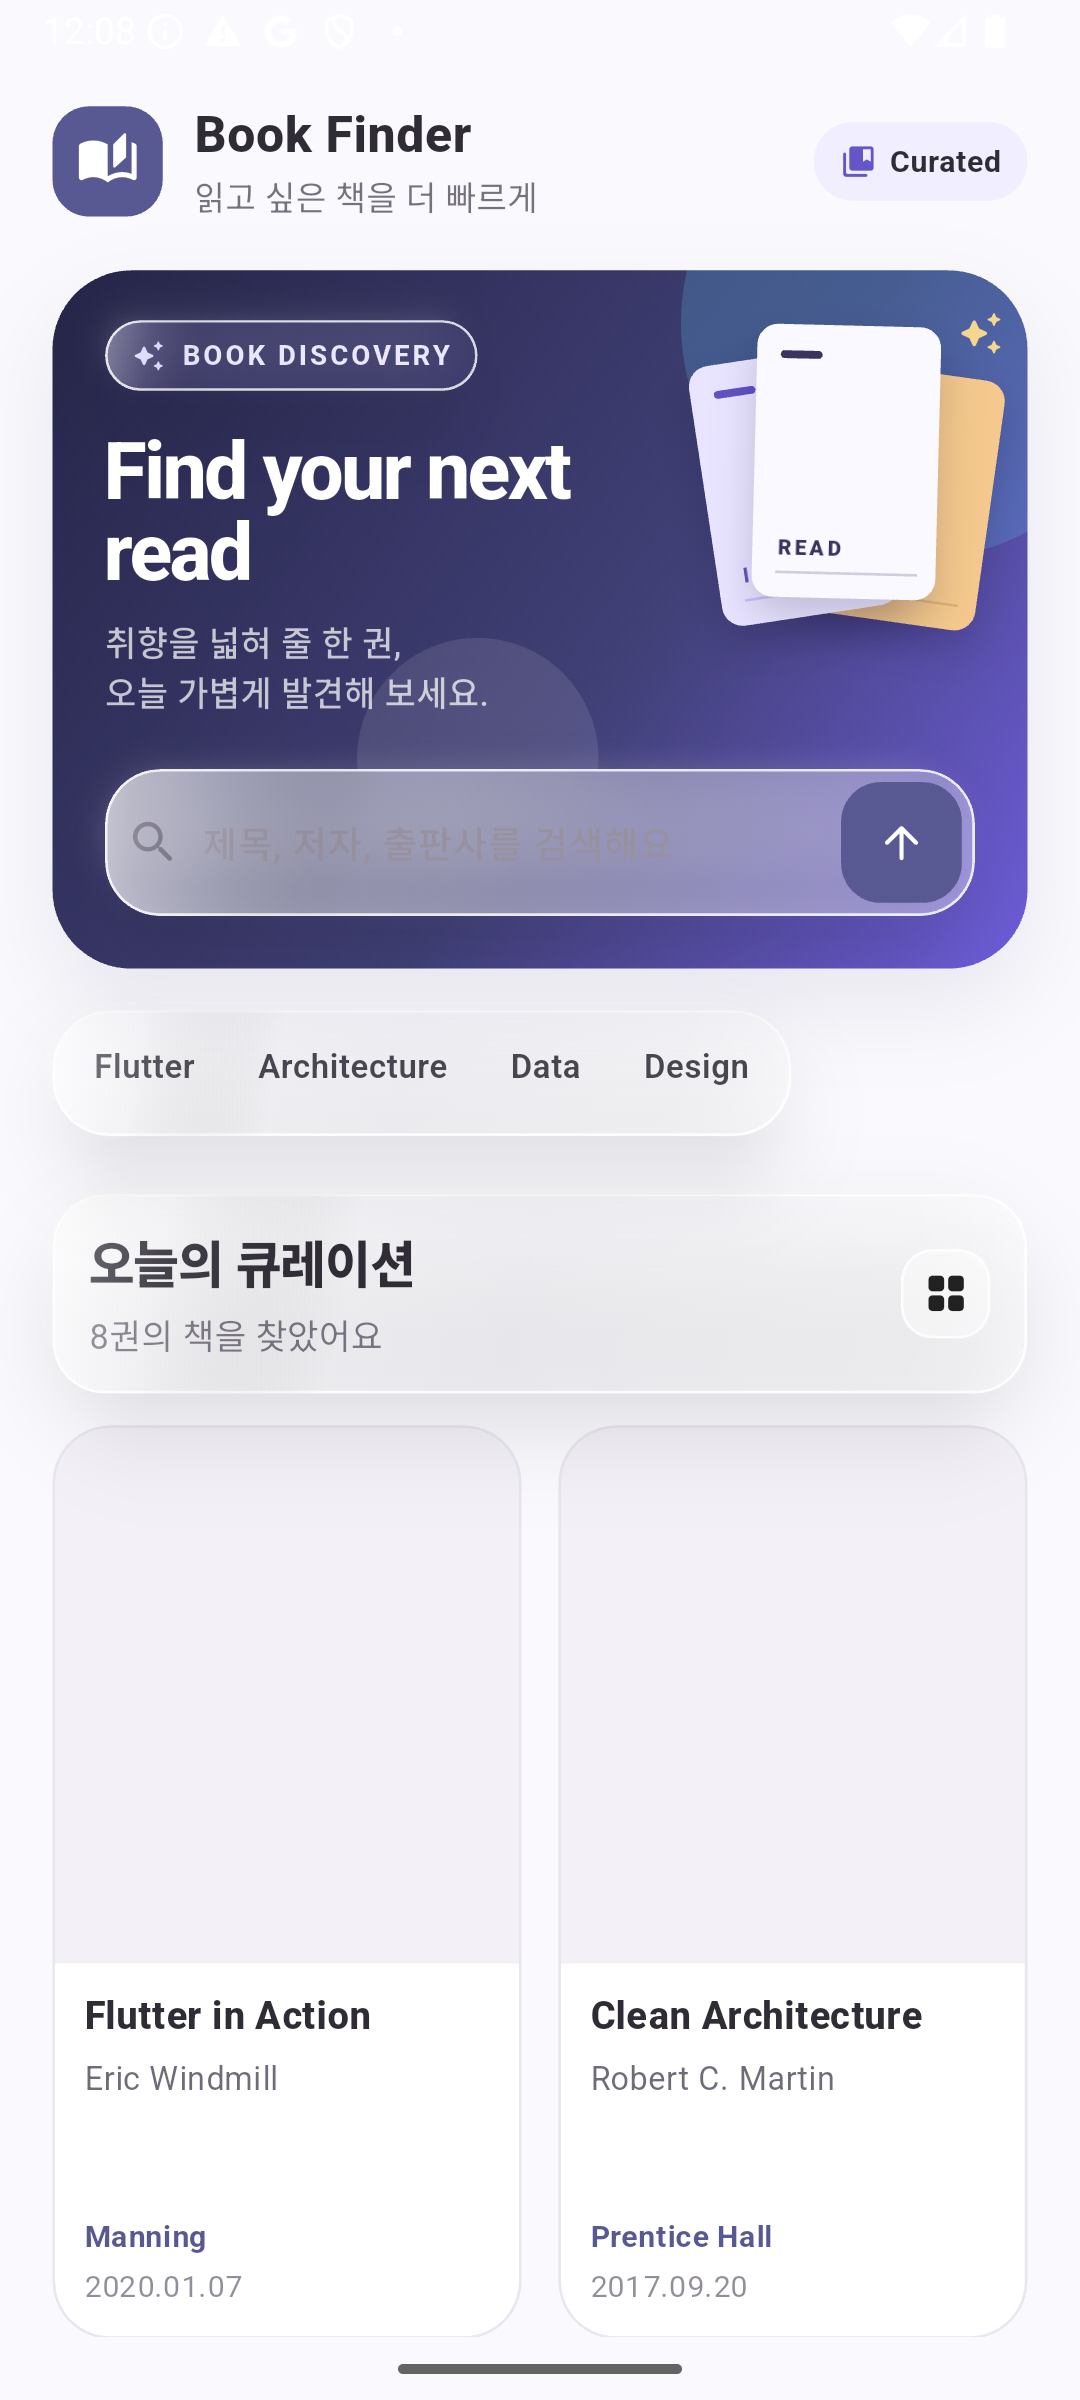
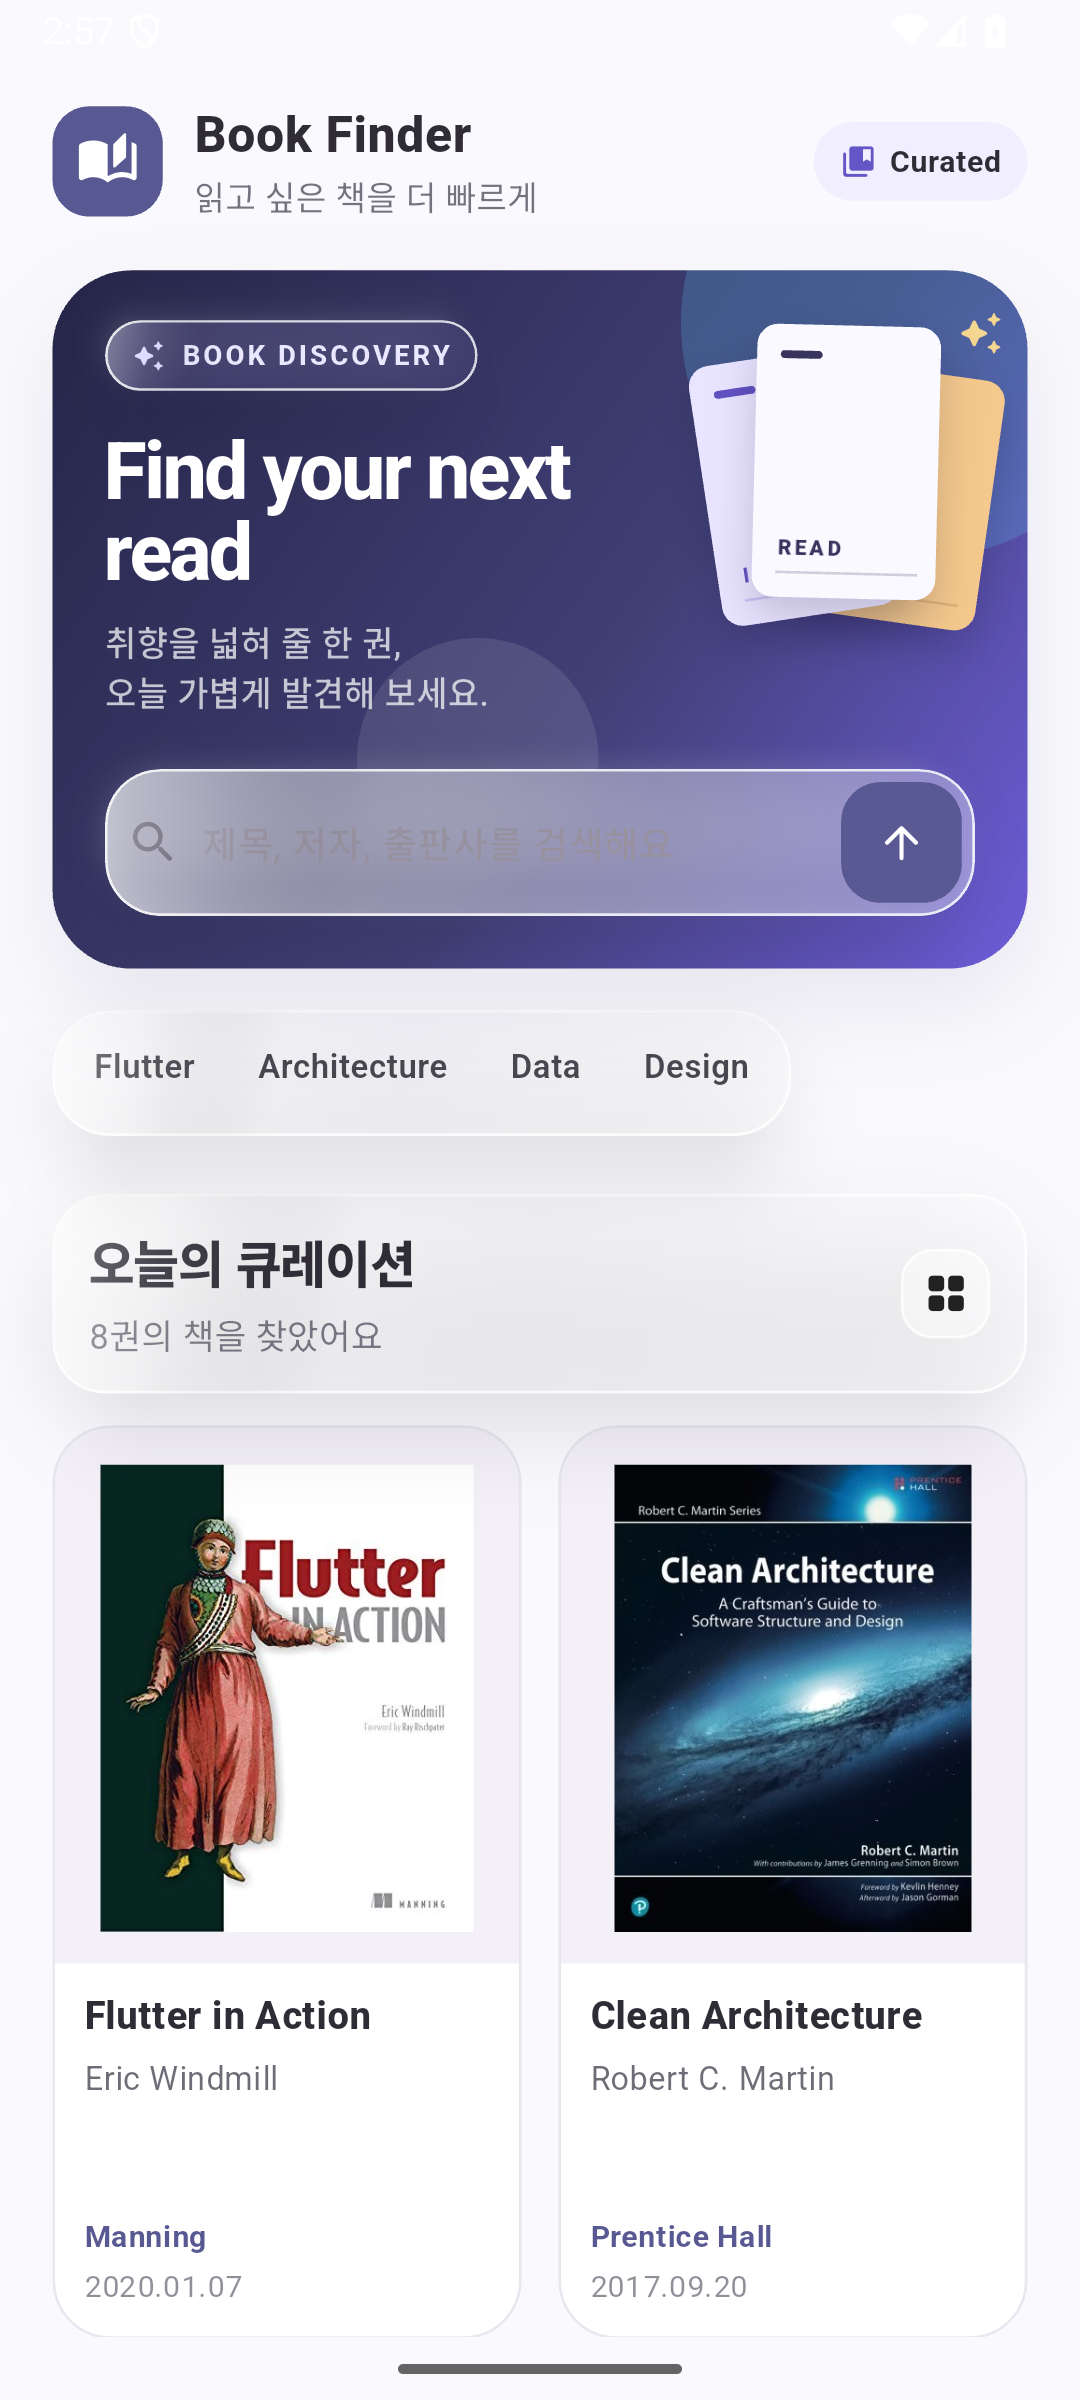
Polish book covers and detail glass

Changed region(s): [[0.55, 0.5938, 0.9167, 0.8125], [0.0917, 0.5938, 0.4278, 0.8125], [0.3361, 0.7812, 0.3667, 0.8125]]

diff --git a/lib/ui/pages/detail/detail_page.dart b/lib/ui/pages/detail/detail_page.dart
@@ -45,40 +45,52 @@ class DetailPage extends StatelessWidget {
                         ),
                       ),
                       const SizedBox(height: 24),
-                      Text(
-                        book.title,
-                        style: const TextStyle(
-                          fontSize: 26,
-                          height: 1.17,
-                          fontWeight: FontWeight.w900,
-                          letterSpacing: -0.6,
-                        ),
-                      ),
-                      const SizedBox(height: 9),
-                      Text(
-                        book.author.isEmpty ? '저자 정보 없음' : book.author,
-                        style: TextStyle(
-                          fontSize: 16,
-                          height: 1.3,
-                          fontWeight: FontWeight.w600,
-                          color: colors.primary,
-                        ),
-                      ),
-                      const SizedBox(height: 20),
-                      _MetadataPanel(book: book),
-                      const SizedBox(height: 26),
-                      const Text(
-                        '책 소개',
-                        style: TextStyle(
-                            fontSize: 19, fontWeight: FontWeight.w800),
-                      ),
-                      const SizedBox(height: 10),
-                      Text(
-                        book.descriptionOrFallback,
-                        style: const TextStyle(
-                          color: Color(0xFF5F5A65),
-                          fontSize: 14.5,
-                          height: 1.65,
+                      AppGlassSurface(
+                        tint: const Color(0xFFF7F5FC),
+                        surfaceOpacity: .76,
+                        blurSigma: 20,
+                        borderRadius: BorderRadius.circular(26),
+                        padding: const EdgeInsets.fromLTRB(18, 18, 18, 20),
+                        child: Column(
+                          crossAxisAlignment: CrossAxisAlignment.start,
+                          children: [
+                            Text(
+                              book.title,
+                              style: const TextStyle(
+                                fontSize: 26,
+                                height: 1.17,
+                                fontWeight: FontWeight.w900,
+                                letterSpacing: -0.6,
+                              ),
+                            ),
+                            const SizedBox(height: 9),
+                            Text(
+                              book.author.isEmpty ? '저자 정보 없음' : book.author,
+                              style: TextStyle(
+                                fontSize: 16,
+                                height: 1.3,
+                                fontWeight: FontWeight.w600,
+                                color: colors.primary,
+                              ),
+                            ),
+                            const SizedBox(height: 20),
+                            _MetadataPanel(book: book),
+                            const SizedBox(height: 24),
+                            const Text(
+                              '책 소개',
+                              style: TextStyle(
+                                  fontSize: 19, fontWeight: FontWeight.w800),
+                            ),
+                            const SizedBox(height: 10),
+                            Text(
+                              book.descriptionOrFallback,
+                              style: const TextStyle(
+                                color: Color(0xFF4F4A57),
+                                fontSize: 14.5,
+                                height: 1.65,
+                              ),
+                            ),
+                          ],
                         ),
                       ),
                       const SizedBox(height: 108),
@@ -148,7 +160,8 @@ class _MetadataPanel extends StatelessWidget {
   Widget build(BuildContext context) {
     return AppGlassSurface(
       borderRadius: BorderRadius.circular(20),
-      blurSigma: 12,
+      blurSigma: 16,
+      surfaceOpacity: .66,
       padding: const EdgeInsets.symmetric(horizontal: 16, vertical: 4),
       child: Column(
         children: [
@@ -287,6 +300,8 @@ class _DetailCover extends StatelessWidget {
                   book.image,
                   fit: BoxFit.contain,
                   filterQuality: FilterQuality.high,
+                  loadingBuilder: (context, child, progress) =>
+                      progress == null ? child : placeholder,
                   errorBuilder: (_, __, ___) => placeholder,
                 ),
               ),

diff --git a/lib/v2/v2_glass.dart b/lib/v2/v2_glass.dart
@@ -54,6 +54,7 @@ class AppGlassSurface extends StatelessWidget {
     this.borderRadius = const BorderRadius.all(Radius.circular(26)),
     this.blurSigma = 18,
     this.tint,
+    this.surfaceOpacity,
   });
 
   final Widget child;
@@ -62,6 +63,12 @@ class AppGlassSurface extends StatelessWidget {
   final double blurSigma;
   final Color? tint;
 
+  /// Optional local density override for content-heavy glass surfaces.
+  ///
+  /// The default keeps the lighter control treatment. Higher values are useful
+  /// for reading surfaces without changing every glass control in the app.
+  final double? surfaceOpacity;
+
   @override
   Widget build(BuildContext context) {
     final media = MediaQuery.maybeOf(context);
@@ -69,10 +76,21 @@ class AppGlassSurface extends StatelessWidget {
     final theme = Theme.of(context);
     final dark = theme.brightness == Brightness.dark;
     final base = tint ?? (dark ? const Color(0xFF24252B) : Colors.white);
-    final accent = Color.lerp(base, theme.colorScheme.primary, dark ? .16 : .10)!;
-    final topAlpha = highContrast ? .98 : (dark ? .60 : .48);
-    final middleAlpha = highContrast ? .96 : (dark ? .50 : .36);
-    final bottomAlpha = highContrast ? .94 : (dark ? .42 : .28);
+    final accent =
+        Color.lerp(base, theme.colorScheme.primary, dark ? .16 : .10)!;
+    final requestedOpacity = surfaceOpacity?.clamp(.0, 1.0);
+    final middleAlpha =
+        highContrast ? .96 : requestedOpacity ?? (dark ? .50 : .36);
+    final topAlpha = highContrast
+        ? .98
+        : requestedOpacity == null
+            ? (dark ? .60 : .48)
+            : (middleAlpha + .10).clamp(.0, 1.0);
+    final bottomAlpha = highContrast
+        ? .94
+        : requestedOpacity == null
+            ? (dark ? .42 : .28)
+            : (middleAlpha - .08).clamp(.0, 1.0);
 
     final body = Stack(
       fit: StackFit.passthrough,

diff --git a/lib/ui/pages/home/home_page.dart b/lib/ui/pages/home/home_page.dart
@@ -648,6 +648,8 @@ class _BookCover extends StatelessWidget {
             book.image,
             fit: BoxFit.contain,
             filterQuality: FilterQuality.medium,
+            loadingBuilder: (context, child, progress) =>
+                progress == null ? child : _placeholder(context),
             errorBuilder: (_, __, ___) => _placeholder(context),
           );
 
